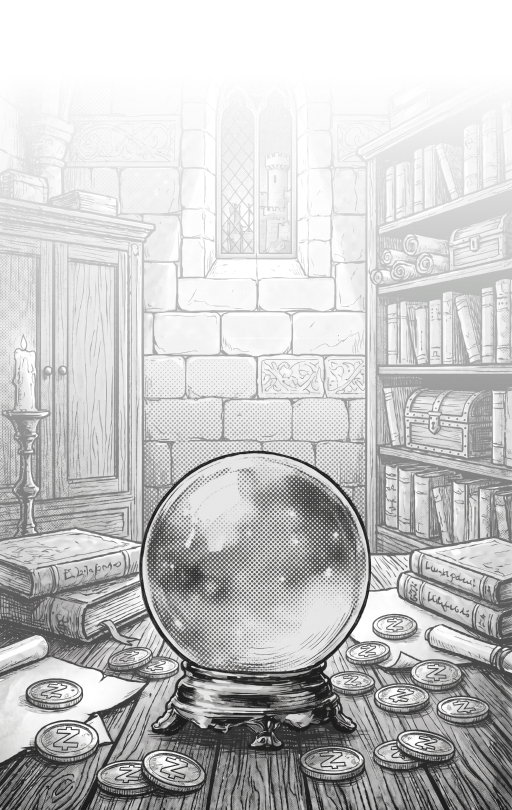
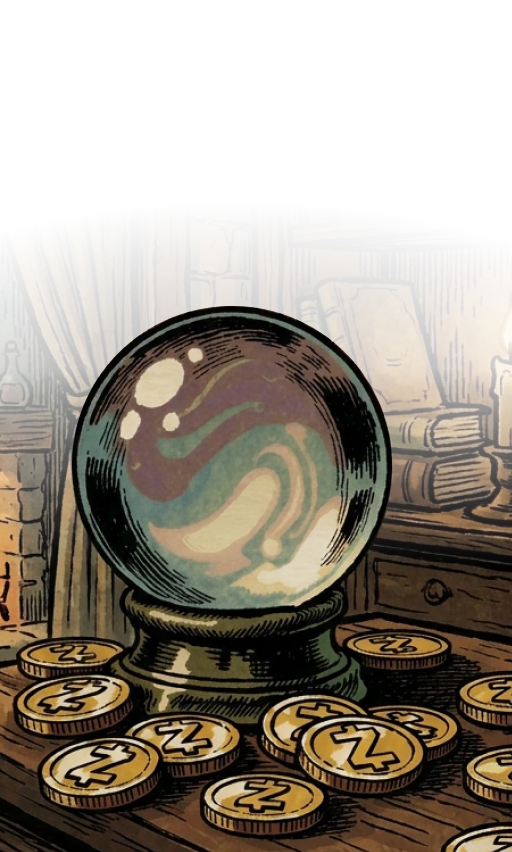
Redesign things to know onboarding screen

diff --git a/lib/src/features/onboarding/create/things_to_know_screen.dart b/lib/src/features/onboarding/create/things_to_know_screen.dart
@@ -16,6 +16,7 @@ class ThingsToKnowScreen extends StatelessWidget {
         label: OnboardingStep.addressTypes.label,
         routePath: OnboardingStep.addressTypes.routePath,
       ),
+      bodyPadding: EdgeInsets.zero,
       child: const _HeroLayout(),
     );
   }
@@ -24,82 +25,149 @@ class ThingsToKnowScreen extends StatelessWidget {
 class _HeroLayout extends StatelessWidget {
   const _HeroLayout();
 
+  static const double _contentAreaWidth = 420;
+  static const double _contentPaddingX = 12;
+  static const double _contentPaddingY = 16;
+
   @override
   Widget build(BuildContext context) {
     return const Column(
       children: [
-        Expanded(child: Center(child: _HeroBlock())),
-        SizedBox(height: AppSpacing.md),
-        _ButtonStack(),
+        Expanded(
+          child: Center(
+            child: SizedBox(
+              width: _contentAreaWidth,
+              child: Padding(
+                padding: EdgeInsets.symmetric(
+                  horizontal: _contentPaddingX,
+                  vertical: _contentPaddingY,
+                ),
+                child: Column(
+                  children: [
+                    Expanded(child: _OnPageContent()),
+                    _ButtonStack(),
+                  ],
+                ),
+              ),
+            ),
+          ),
+        ),
       ],
     );
   }
 }
 
-class _HeroBlock extends StatelessWidget {
-  const _HeroBlock();
+class _OnPageContent extends StatelessWidget {
+  const _OnPageContent();
+
+  static const double _sectionGap = 32;
+
+  @override
+  Widget build(BuildContext context) {
+    return const Column(
+      mainAxisAlignment: MainAxisAlignment.center,
+      children: [
+        _TitleBlock(),
+        SizedBox(height: _sectionGap),
+        _ThingsToKnowPanel(),
+      ],
+    );
+  }
+}
+
+class _TitleBlock extends StatelessWidget {
+  const _TitleBlock();
 
   @override
   Widget build(BuildContext context) {
     final colors = context.colors;
     return Column(
-      mainAxisSize: MainAxisSize.min,
       children: [
-        Text(
-          'Things to Know',
-          style: AppTypography.displayLarge.copyWith(color: colors.text.accent),
-          textAlign: TextAlign.center,
+        FittedBox(
+          fit: BoxFit.scaleDown,
+          alignment: Alignment.center,
+          child: Text(
+            'Things to know',
+            style: AppTypography.displayLarge.copyWith(
+              fontFamily: 'Young Serif',
+              fontWeight: FontWeight.w400,
+              color: colors.text.accent,
+            ),
+            maxLines: 1,
+            overflow: TextOverflow.visible,
+            softWrap: false,
+            textAlign: TextAlign.center,
+          ),
         ),
         const SizedBox(height: AppSpacing.sm),
         Text(
-          'A few tips before you start.',
-          style: AppTypography.bodyMedium.copyWith(color: colors.text.accent),
+          'Zcash has two addresses types.\n'
+          'One for Privacy, one for Transparency.',
+          style: AppTypography.bodyMediumStrong.copyWith(
+            color: colors.text.accent,
+          ),
           textAlign: TextAlign.center,
         ),
-        const SizedBox(height: AppSpacing.lg),
-        const _InfoColumns(),
       ],
     );
   }
 }
 
-class _InfoColumns extends StatelessWidget {
-  const _InfoColumns();
+class _ThingsToKnowPanel extends StatelessWidget {
+  const _ThingsToKnowPanel();
+
+  static const _radius = BorderRadius.all(Radius.circular(24));
+  static const double _verticalPadding = 32;
 
   @override
   Widget build(BuildContext context) {
     final colors = context.colors;
+    final isDark = context.appTheme == AppThemeData.dark;
+    final fill = isDark ? colors.background.base : colors.background.ground;
+
     return Container(
-      padding: const EdgeInsets.all(AppSpacing.sm),
-      child: Row(
-        mainAxisSize: MainAxisSize.min,
-        crossAxisAlignment: CrossAxisAlignment.start,
+      width: double.infinity,
+      padding: const EdgeInsets.symmetric(
+        horizontal: AppSpacing.sm,
+        vertical: _verticalPadding,
+      ),
+      decoration: BoxDecoration(
+        color: fill,
+        borderRadius: _radius,
+        boxShadow: [
+          BoxShadow(color: colors.shadows.subtle, blurRadius: 1),
+          BoxShadow(
+            color: colors.shadows.subtle,
+            offset: const Offset(0, 1),
+            blurRadius: 2,
+          ),
+          BoxShadow(
+            color: colors.shadows.subtle,
+            offset: const Offset(0, 2),
+            blurRadius: 4,
+          ),
+          BoxShadow(color: colors.shadows.subtle, blurRadius: 1),
+        ],
+      ),
+      child: const Column(
         children: [
-          const _InfoColumn(
+          _InfoSection(
             title: 'Time to sync',
             body:
-                'Your balance may be incomplete until your wallet finishes '
-                'syncing. Syncing directly with the Zcash network protects '
-                'your privacy, but takes time. Your funds are safe in the '
-                'meantime.',
+                'Your wallet syncs directly with the Zcash network instead '
+                'of relying on a server. This protects your privacy, but '
+                'takes a moment. Your funds are safe while the app catches up.',
             iconName: AppIcons.time,
           ),
-          const SizedBox(width: AppSpacing.lg),
-          Container(
-            width: 1,
-            height: 145,
-            decoration: BoxDecoration(
-              color: colors.background.inverse.withValues(alpha: 0.2),
-              borderRadius: BorderRadius.circular(AppRadii.full),
-            ),
-          ),
-          const SizedBox(width: AppSpacing.lg),
-          const _InfoColumn(
+          SizedBox(height: AppSpacing.sm),
+          _Divider(),
+          SizedBox(height: AppSpacing.sm),
+          _InfoSection(
             title: 'How to keep privacy',
             body:
-                "Most exchanges don't let you withdraw to a shielded address. "
-                'Use your transparent address, then shield your ZEC after it '
-                'arrives.',
+                "Some exchanges can't send to shielded addresses. If you're "
+                'withdrawing from an exchange, use your transparent address. '
+                'You can shield your ZEC after it arrives.',
             iconName: AppIcons.shieldKeyholeOutline,
           ),
         ],
@@ -108,8 +176,23 @@ class _InfoColumns extends StatelessWidget {
   }
 }
 
-class _InfoColumn extends StatelessWidget {
-  const _InfoColumn({
+class _Divider extends StatelessWidget {
+  const _Divider();
+
+  @override
+  Widget build(BuildContext context) {
+    return DecoratedBox(
+      decoration: BoxDecoration(
+        color: context.colors.border.regular,
+        borderRadius: BorderRadius.circular(AppRadii.small),
+      ),
+      child: const SizedBox(height: 1, width: double.infinity),
+    );
+  }
+}
+
+class _InfoSection extends StatelessWidget {
+  const _InfoSection({
     required this.title,
     required this.body,
     required this.iconName,
@@ -122,25 +205,25 @@ class _InfoColumn extends StatelessWidget {
   @override
   Widget build(BuildContext context) {
     final colors = context.colors;
-    return SizedBox(
-      width: 256,
+    return Padding(
+      padding: const EdgeInsets.all(AppSpacing.xxs),
       child: Column(
         crossAxisAlignment: CrossAxisAlignment.start,
         children: [
           Row(
             crossAxisAlignment: CrossAxisAlignment.center,
             children: [
+              AppIcon(iconName, size: 24, color: colors.icon.accent),
+              const SizedBox(width: AppSpacing.xs),
               Expanded(
                 child: Text(
                   title,
                   style: AppTypography.bodyLarge.copyWith(
                     color: colors.text.accent,
-                    fontWeight: FontWeight.w500,
+                    fontWeight: FontWeight.w600,
                   ),
                 ),
               ),
-              const SizedBox(width: AppSpacing.xxs),
-              AppIcon(iconName, size: 20, color: colors.text.brandCrimson),
             ],
           ),
           const SizedBox(height: AppSpacing.sm),
@@ -159,7 +242,7 @@ class _InfoColumn extends StatelessWidget {
 class _ButtonStack extends StatelessWidget {
   const _ButtonStack();
 
-  static const double _buttonWidth = 256;
+  static const double _buttonWidth = 196;
 
   @override
   Widget build(BuildContext context) {
@@ -168,7 +251,7 @@ class _ButtonStack extends StatelessWidget {
       variant: AppButtonVariant.primary,
       minWidth: _buttonWidth,
       trailing: const AppIcon(AppIcons.chevronForward),
-      child: const Text('Good to know'),
+      child: const Text('Tell me how Zcash works'),
     );
   }
 }